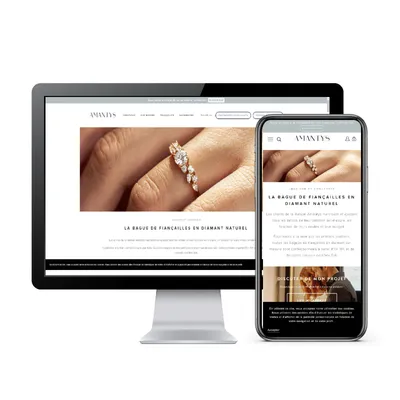
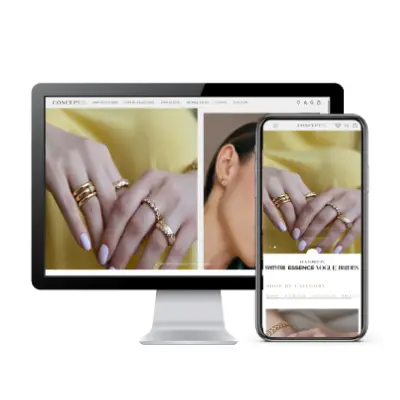
Pixel Perfect Update

diff --git a/components/homes/home-1/Reviews.jsx b/components/homes/home-1/Reviews.jsx
@@ -1,0 +1,147 @@
+import React from "react";
+import Image from "next/image";
+import Link from "next/link";
+
+const reviews = [
+  {
+    id: 1,
+    name: "Denis Slavska",
+    role: "CTO, Allitic",
+    company: "New York City, New York",
+    logo: "/assets/images/brands/shopify.svg",
+    image: "/assets/images/avatars/r1.webp",
+    review: "They tailor their solutions to our specific needs and goals.",
+  },
+  {
+    id: 2,
+    name: "Jahan Melad",
+    role: "Project Manager, Buildwave",
+    company: "New York City, New York",
+    logo: "/assets/images/brands/shopify.svg",
+    image: "/assets/images/avatars/r2.webp",
+    review:
+      "They organized their work and internal management was outstanding.",
+  },
+  {
+    id: 3,
+    name: "Jim Halpert",
+    role: "Lead Engineering, InHive Space",
+    company: "New York City, New York",
+    logo: "/assets/images/brands/shopify.svg",
+    image: "/assets/images/avatars/r3.webp",
+    review: "Working with them was a great experience.",
+  },
+//   {
+//     id: 4,
+//     name: "Jim Halpert",
+//     role: "Lead Engineering, InHive Space",
+//     company: "New York City, New York",
+//     logo: "/assets/images/brands/shopify.svg",
+//     image: "/assets/images/avatars/r3.webp",
+//     review: "Working with them was a great experience.",
+//   },
+//   {
+//     id: 5,
+//     name: "Jim Halpert",
+//     role: "Lead Engineering, InHive Space",
+//     company: "New York City, New York",
+//     logo: "/assets/images/brands/shopify.svg",
+//     image: "/assets/images/avatars/r3.webp",
+//     review: "Working with them was a great experience.",
+//   },
+//   {
+//     id: 6,
+//     name: "Jim Halpert",
+//     role: "Lead Engineering, InHive Space",
+//     company: "New York City, New York",
+//     logo: "/assets/images/brands/shopify.svg",
+//     image: "/assets/images/avatars/r3.webp",
+//     review: "Working with them was a great experience.",
+//   },
+  // Add up to 20 reviews...
+];
+
+export default function Reviews() {
+  return (
+    <div id="reviews" className="reviews section panel overflow-hidden">
+      <div className="section-outer panel  xl:pb-5 pb-6">
+        <div className="container xl:max-w-7xl">
+          <div className="section-inner panel">
+            <div className="panel vstack gap-10">
+              {/* Heading */}
+              <div className="heading vstack items-center text-center gap-3">
+                <span className="fw-bold text-primary dark:text-secondary">
+                  OUR REVIEWS
+                </span>
+                <h2 className="title h3 lg:h2 xl:h1 m-0">
+                  What Our <span className="text-primary">Clients</span> Say
+                </h2>
+              </div>
+
+              {/* Reviews grid */}
+              <div className="row child-cols col-match items-center justify-center   lg:gy-8 gap-2 lg:gap-2   mt-6">
+                {reviews.map((r) => (
+                  <div
+                    key={r.id}
+                    className="panel bg-white dark:bg-dark-2 rounded-3  border p-6 flex flex-col h-full"
+                  >
+                    {/* Top row: avatar + logo */}
+                    <div className="hstack flex items-start justify-between mb-4">
+                      <div className="flex items-center gap-3">
+                        <Image
+                          src={r.image}
+                          alt={r.name}
+                          width={44}
+                          height={44}
+                          className="rounded-circle"
+                        />
+                     
+                      </div>
+                      {r.logo && (
+                        <Image
+                          src={r.logo}
+                          alt={r.role}
+                          width={80}
+                          height={30}
+                          className="object-contain "
+                        />
+                      )}
+                    </div>
+
+                    {/* Review */}
+                    <p className="fs-5 text-dark dark:text-white text-opacity-80 italic leading-relaxed flex-1">
+                      <span className="text-primary text-2xl me-1">“</span>
+                      {r.review}
+                    </p>
+
+                    {/* Company */}
+                       <div className="vstack mt-4">
+                          <span className="fw-bold text-sm">{r.name}</span>
+                          <span className="fs-7 text-gray-500">
+                            {r.role}
+                          </span>
+                            <span className="fs-8 text-gray-400 mt-4">
+                      {r.company}
+                    </span>
+                        </div>
+                  
+                  </div>
+                ))}
+              </div>
+
+              {/* CTA button */}
+              <div className="vstack items-center mt-6">
+                <Link
+                  href="/reviews"
+                  className="btn btn-md btn-primary rounded-default"
+                >
+                  View All Reviews
+                </Link>
+              </div>
+            </div>
+          </div>
+        </div>
+      </div>
+    </div>
+  );
+}

diff --git a/components/modals/PortfolioModal.jsx b/components/modals/PortfolioModal.jsx
@@ -98,17 +98,38 @@ export default function PortfolioModal() {
                   <div className="panel">
                     <div className="row justify-start items-start child-cols-12 col-match g-0">
                       {/* Left: Details */}
+                      
+
+                      {/* Right: Image */}
+                      <div
+                        className="bg-gray-50 dark:bg-dark-2 flex items-center justify-center lg:col-8 relative"
+                        style={{ minHeight: imgHeight ? `${imgHeight}px` : "300px" }}
+                      >
+                        {project?.popImage && (
+                          <div
+                            className="w-full"
+                            style={{
+                              height: imgHeight ? `${imgHeight}px` : "100%",
+                              backgroundImage: `url(/${project.popImage})`,
+                              backgroundSize: "contain",
+                              backgroundPosition: "top",
+                              backgroundRepeat: "no-repeat",
+                            }}
+                          />
+                        )}
+                      </div>
+
                       <div className="p-4 md:p-6 gap-2 lg:col-4 md:gap-2 overflow-y-auto ">
                         <h3 className="h5 lg:h4 m-0">{project?.name ?? "Project"}</h3>
 
-               {project?.details ? (
-  <div
-    className="fs-6 text-opacity-70"
-    dangerouslySetInnerHTML={{ __html: project.details }}
-  />
-) : (
-  <p className="fs-6 text-opacity-50">No additional details available.</p>
-)}
+                        {project?.details ? (
+                          <div
+                            className="fs-6 text-opacity-70"
+                            dangerouslySetInnerHTML={{ __html: project.details }}
+                          />
+                        ) : (
+                          <p className="fs-6 text-opacity-50">No additional details available.</p>
+                        )}
 
 
                         {Array.isArray(project?.categories) &&
@@ -133,25 +154,6 @@ export default function PortfolioModal() {
                           >
                             Visit Website
                           </Link>
-                        )}
-                      </div>
-
-                      {/* Right: Image */}
-                      <div
-                        className="bg-gray-50 dark:bg-dark-2 flex items-center justify-center lg:col-8 relative"
-                        style={{ minHeight: imgHeight ? `${imgHeight}px` : "300px" }}
-                      >
-                        {project?.popImage && (
-                          <div
-                            className="w-full"
-                            style={{
-                              height: imgHeight ? `${imgHeight}px` : "100%",
-                              backgroundImage: `url(/${project.popImage})`,
-                              backgroundSize: "contain",
-                              backgroundPosition: "top",
-                              backgroundRepeat: "no-repeat",
-                            }}
-                          />
                         )}
                       </div>
                     </div>

diff --git a/data/portfolio.js b/data/portfolio.js
@@ -35,8 +35,8 @@ export const projectsData = [
     projId: "project56",
     link: "https://www.concept26.co/",
     categories: ["shopify", "ecommerce"],
-    mainImage: "assets/images/portfolio/images/blacktreepng.webp",
-    popImage: "assets/images/portfolio/pop/blackmain.webp"
+    mainImage: "assets/images/portfolio/images/concept.webp",
+    popImage: "assets/images/portfolio/pop/concept26.webp"
   },
   {
     name: "Farm House",
@@ -240,7 +240,7 @@ export const projectsData = [
     link: "https://www.dearvinyl.com/en",
     categories: ["shopify", "ecommerce"],
     mainImage: "assets/images/portfolio/images/dear vinyl.webp",
-    popImage: "assets/images/portfolio/pop/smart4change.webp"
+    popImage: "assets/images/portfolio/pop/vinyl.webp"
   },
   {
     name: "P3 India",
@@ -265,33 +265,9 @@ export const projectsData = [
     link: "https://p3india.com/",
     categories: ["shopify", "ecommerce"],
     mainImage: "assets/images/portfolio/images/p3-india.webp",
-    popImage: "assets/images/portfolio/pop/smart4change.webp"
+    popImage: "assets/images/portfolio/pop/p3.webp"
   },
-  {
-    name: "Amantys",
-    details: `
-      <h3>Project Overview</h3>
-      <p>Amantys (Squarespace) is a small brand requiring a clean, image-forward site. We focused on simplicity, strong imagery and an editorial layout.</p>
-      <h4>What We Did</h4>
-      <ul>
-        <li>Custom Squarespace template styling to match brand identity and photography.</li>
-        <li>Structured content sections so editors can add case studies and galleries easily.</li>
-        <li>Added contact and booking CTA modules to increase inquiries.</li>
-        <li>Ensured responsive design and fast image loading for large galleries.</li>
-      </ul>
-      <h4>Tech & Deliverables</h4>
-      <ul>
-        <li>Squarespace customization (no-code friendly blocks) and CMS training for the client.</li>
-      </ul>
-      <p><strong>Timeline:</strong> 2–3 weeks. <strong>Outcome:</strong> polished portfolio site that showcases photography and makes updates simple.</p>
-    `,
-    projId: "project13",
-    link: "https://diamdis.squarespace.com/",
-    categories: ["squarespace"],
-    mainImage: "assets/images/portfolio/images/amantys.webp",
-    popImage: "assets/images/portfolio/pop/amantysmain.webp"
-  },
-  {
+    {
     name: "karllillrud",
     details: `
       <h3>Project Overview</h3>
@@ -557,7 +533,7 @@ export const projectsData = [
     link: "https://www.jonmiller.com/",
     categories: ["squarespace"],
     mainImage: "assets/images/portfolio/images/jonmiller.webp",
-    popImage: "assets/images/portfolio/pop/jonmillermain.webp"
+    popImage: "assets/images/portfolio/pop/jonmiller.webp"
   },
   {
     name: "bunker",
@@ -871,7 +847,7 @@ export const projectsData = [
   link: "https://rhealsuperfoods.com/",
   categories: ["shopify"],
   mainImage: "assets/images/portfolio/images/rheal.webp",
-  popImage: "assets/images/portfolio/pop/.rhealmain.webp"
+  popImage: "assets/images/portfolio/pop/.rheal.webp"
 },
 {
   name: "notorious",

diff --git a/app/(homes)/home-1/page.jsx b/app/(homes)/home-1/page.jsx
@@ -2,6 +2,7 @@ import Brands from "@/components/common/Brands";
 import Steps from "@/components/common/Steps";
 import Footer4 from "@/components/footers/Footer4";
 import Header4 from "@/components/headers/Header4";
+import Reviews from "@/components/homes/home-1/Reviews";
 import Facts from "@/components/homes/home-4/Facts";
 import Cta from "@/components/homes/home-5/Cta";
 import Features from "@/components/homes/home-5/Features";
@@ -56,7 +57,7 @@ export default function HomePage5() {
           <Howworks />
           <Pricing />
           <Steps />
-         
+         <Reviews />
           <Team />
          {/* <Support /> */}
           </div>
